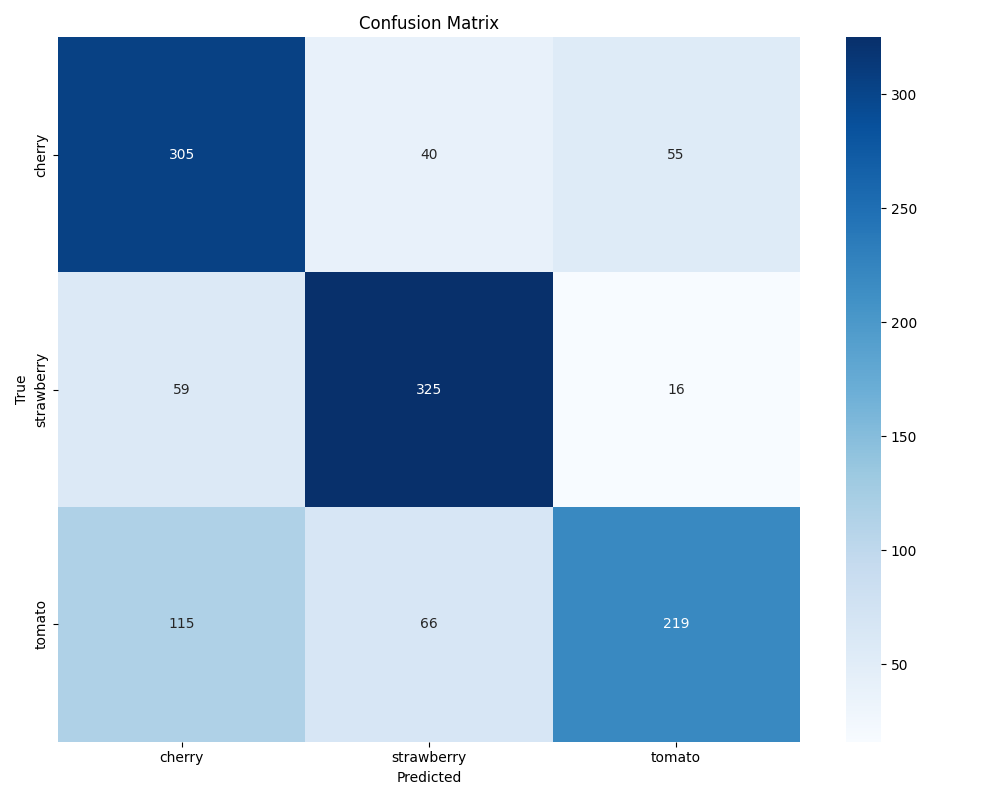
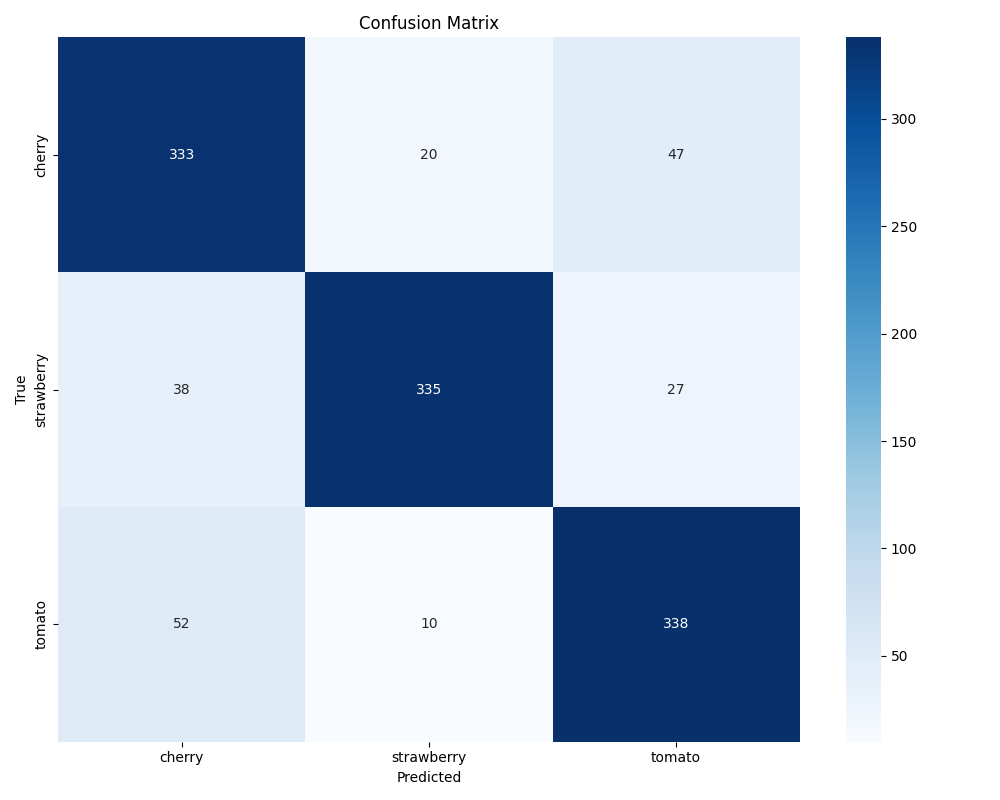
Updated to use 112px images
112 is the peak for performance so to save memory have reduced.

diff --git a/code/fruit_class.py b/code/fruit_class.py
@@ -9,22 +9,6 @@ from sklearn.metrics import precision_recall_fscore_support, accuracy_score, con
 import matplotlib.pyplot as plt
 import seaborn as sns
 
-# # Check if CUDA is available and print GPU details if present
-# if torch.cuda.is_available():
-#     print("CUDA available:", torch.cuda.is_available())
-#     print("GPU Device:", torch.cuda.get_device_name(0))
-#     torch.cuda.empty_cache()  # Clear any cached data to free up memory
-# else:
-#     print("CUDA not available.")
-
-# # Check if MPS (Metal Performance Shaders) is available (for Mac with Apple Silicon)
-# if torch.backends.mps.is_available():
-#     print("MPS (Metal Performance Shaders) available.")
-#     # You can set the default device to MPS if available
-#     device = torch.device("mps")
-# else:
-#     print("MPS not available.")
-
 # Function to plot and save confusion matrix
 def plot_confusion_matrix(true_labels, predictions, classes):
     cm = confusion_matrix(true_labels, predictions)
@@ -77,7 +61,7 @@ class FruitClassifierCNN(nn.Module):
         # Fully connected layers
         self.fc_layers = nn.Sequential(
             # The input to the fully connected layer is now 256 * 18 * 18
-            nn.Linear(256 * 18 * 18, 512),
+            nn.Linear(256 * 7 * 7, 512),
             nn.BatchNorm1d(512),
             nn.ReLU(),
             nn.Dropout(0.3),

diff --git a/code/train.py b/code/train.py
@@ -27,7 +27,7 @@ def main():
 
     # Define image transformations: resize to 299x299, convert to tensor, and normalize
     transform = transforms.Compose([
-        transforms.Resize((299, 299)),
+        transforms.Resize((112, 112)),
         transforms.RandomHorizontalFlip(),
         transforms.RandomVerticalFlip(),
         transforms.RandomRotation(20),
@@ -54,7 +54,7 @@ def main():
     optimizer = optim.Adam(model.parameters(), lr=learning_rate)
 
     # Define the learning rate scheduler
-    scheduler = ReduceLROnPlateau(optimizer, mode='min', patience=3, factor=0.1, verbose=True)
+    scheduler = ReduceLROnPlateau(optimizer, mode='min', patience=3, factor=0.1)
 
     # Train the model
     print("\nStarting training...")

diff --git a/code/test.py b/code/test.py
@@ -18,7 +18,7 @@ def main():
 
     # Define image transformations (same as during training) ## This isn't set to the same as training, need to check
     transform = transforms.Compose([
-        transforms.Resize((299, 299)),
+        transforms.Resize((112, 112)),
         transforms.ToTensor(),
         transforms.Normalize((0.5, 0.5, 0.5), (0.5, 0.5, 0.5))  # Normalize RGB channels
     ])
